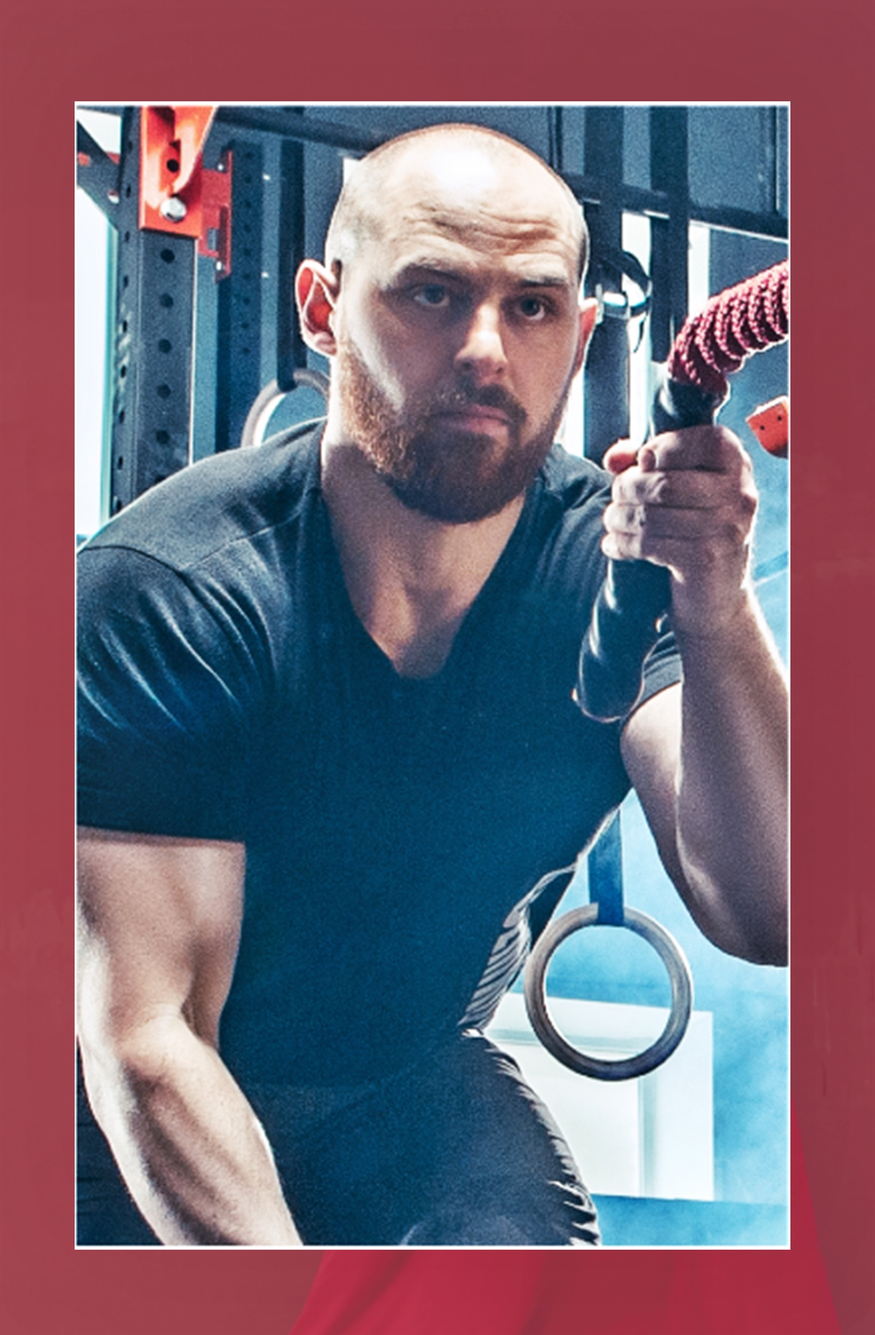
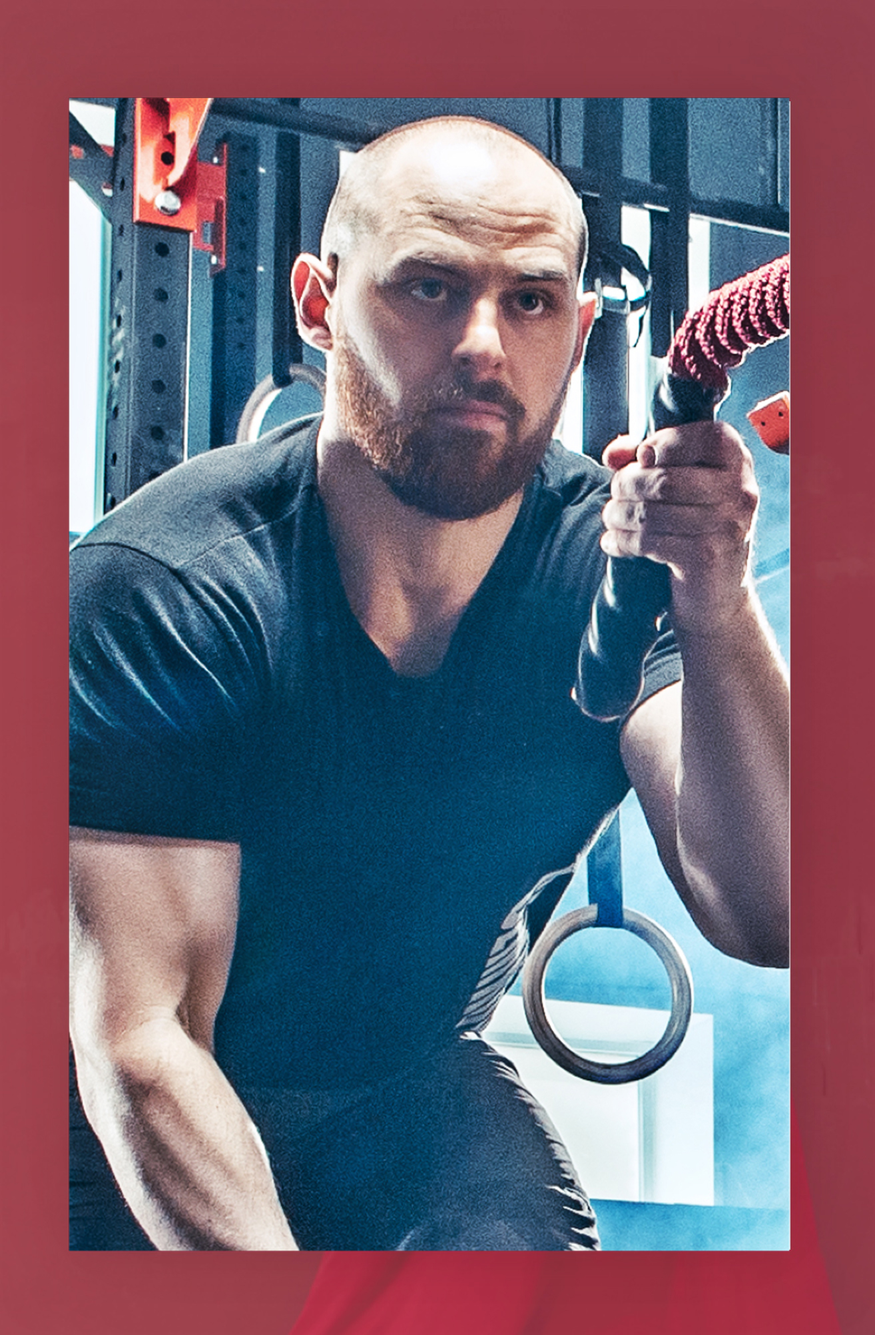
edit

Changed region(s): [[0.0624, 0.0619, 0.9049, 0.9591], [0.3744, 0.4331, 0.5616, 0.495]]

diff --git a/css/style.css b/css/style.css
@@ -44,7 +44,7 @@
 /* ===================================================================================== */
 .dangerrr{
   position: absolute;
-  background-color: #c50a0a;
+  background-color: #fd0d0d;
   padding-top: 6px;
   width: 25px;
   height: 25px;
@@ -83,14 +83,14 @@
   font-family: "futura-medium";
   font-size: 11px;
   letter-spacing: 4.33px;
-  opacity: 0.7;
+  /* opacity: 0.7; */
   padding-left: 2.5rem;
   font-weight: bold;
   color: #ffffff;
 }
 
 .navbar .navbar-nav .nav-item .nav-link:hover {
-  opacity: 1;
+  opacity: 0.9;
 }
 
 .navbar-nav .nav-item .nav-link img{
@@ -157,7 +157,7 @@
   font-size: 14px;
   letter-spacing: 8px;
   margin-top: 1rem;
-  margin-left: -0.4rem;
+  margin-left: -0.2rem;
 }
 .btnShopHeader:hover {
   background-color: #c50a0a;
@@ -233,6 +233,8 @@
 }
 .boxShirt {
   background-color: #f3f3f3;
+  padding-right: 0;
+  padding-left: 7rem;
 }
 .pText {
   font-family: "BankGothicMedium";
@@ -249,17 +251,18 @@
 .imgCross {
   position: absolute;
   margin-top: 10px;
-  top: -50px;
-  right: 0;
-  left: 130px;
+  top: -70px;
+  right: 0px;
+  width: unset;
   height: 400px;
 }
 .imgShirt {
   position: absolute;
   bottom: 0;
-  top: 120px;
-  left: -130px;
-  width: 150%;
+  top: 130px;
+  right: 0px;
+  width: 109%;
+  height: 87%;
 }
 .salary {
   border-bottom: 2px solid #c50a0a;
@@ -337,7 +340,7 @@
 }
 .imgEdit {
   position: absolute;
-  right: -100px;
+  right: 0px;
   margin-top: -160px;
   width: 100%;
   bottom: -180px;
@@ -438,13 +441,16 @@
 .swiper-button-next, .swiper-container-rtl .swiper-button-prev{
   position: absolute;
   top: 30px;
-  right: 10%;
+  right: 6%;
 }
 .swiper-button-prev, .swiper-container-rtl .swiper-button-next{
   position: absolute;
   top: 30px;
-  right: 20%;
+  right: 10%;
   left: unset;
+}
+.swiper-button-next:after, .swiper-container-rtl .swiper-button-prev:after,.swiper-button-next:after,.swiper-button-prev:after, .swiper-container-rtl .swiper-button-next:after{
+  content: none;
 }
 /* =================================== Page Comming Soon =============================== */
 .nvLnkComming {
@@ -669,41 +675,29 @@
   }
 }
 
-
-
 @media screen and (max-width: 1100px) {
   .imgCross {
     position: absolute;
     margin-top: 10px;
     top: -50px;
     right: 0;
-    left: 10px;
     height: 400px;
   }
   .imgEdit {
-    right: -100px !important;
-  }
-}
-
-@media screen and (max-width: 1400px) {
-  .imgEdit {
-    right: -100px !important;
-  }
-}
-
-@media screen and (max-width: 1600px) {
-  .imgEdit {
-    right: -100px !important;
+    right: 0px !important;
   }
 }
 
 @media screen and (max-width: 1024px) {
   .imgEdit {
     position: absolute;
-    right: -30px !important;
+    right: 10px !important;
     margin-top: -160px;
     width: 100%;
     bottom: -180px;
+  }
+  .imgShirt{
+    right: 0;
   }
 }
 
@@ -718,7 +712,9 @@
   .bottom-right2 {
     top: 320px;
   }
-
+  .boxShirt {
+    padding-left: 1rem;
+  }
   .couchEdit {
     position: relative;
     padding-top: 9rem;
@@ -739,7 +735,6 @@
     position: relative;
     width: 100%;
     top: 0;
-    left: -9px;
   }
   .btnShop {
     margin-bottom: 2rem;
@@ -760,6 +755,7 @@
     height: 400px;
   }
 }
+
 @media screen and (max-width: 790px) {
   .imgInnerSlider{
     width: 100% !important;
@@ -818,6 +814,7 @@
     right: 25%;
   }
 }
+
 @media screen and (max-width: 320px) {
   .slider1 .carousel-item img {
     padding-right: 15rem;
@@ -845,8 +842,6 @@
   }
 }
 
-
-
 @media screen and (min-width: 1000px) {
   .navbar-expand-lg {
     padding: 2rem 4rem 2rem 5rem;
@@ -855,9 +850,11 @@
     padding-left: 3.5rem;
   }
 }
+
 @media screen and (max-width:1024px){
   .imgInnerSlider{
-    top: -70px !important;
+    top: -100px !important;
+    width: 80% !important;
     right: 0;
     left: 0;
   }
@@ -875,6 +872,7 @@
     width: 183px;
   }
 }
+
 @media screen and (min-width:1400px){
   .carousel-control-prev,.carousel-control-next{
     top: 430px !important;
@@ -900,11 +898,46 @@
     height: 800px;
     object-position: 10% 20%;
   }
-}
-@media screen and (min-width:1211px){
-  .imgEdit{
-    right: -30px !important;
+  .boxShirt{
+    height: 740px;
+    padding-left: 6rem;
   }
+  .imgShirt{
+    width: 80%;
+    height: 100%;
+  }
+  .pText{
+    font-size: 22px;
+  }
+}
+
+@media screen and (min-width:2000px){
+  .imgShirt{
+    height: 130%;
+  }
+}
+
+@media screen and (max-width:1145px){
+
+  .imgInnerSlider{
+    width: 80% !important;
+    height: 420px !important;
+  }
+}
+
+@media screen and (max-width:1250px){
+  .imgShirt{
+    right: 0px;
+  }
+  .imgCross{
+    right: 0;
+  }
+  .imgEdit{
+    right: 20px;
+  }
+}
+
+@media screen and (min-width:1211px){
   .imgInnerSlider{
     right: 0;
     left: 0;

diff --git a/index.html b/index.html
@@ -223,8 +223,8 @@
             <div class="swiper-pagination">
                 <img src="images/next.svg">
             </div>
-            <div class="swiper-button-next"></div>
-            <div class="swiper-button-prev"></div>
+            <div class="swiper-button-next"><img src="images/right.svg"></div>
+            <div class="swiper-button-prev"><img src="images/left.svg"></div>
         </div><br>
     </div>
     <!-- ================================================================ -->
@@ -270,9 +270,9 @@
     <!-- ============================================================= -->
 
     <div class="jumbotron boxShirt">
-        <div class="container">
+        <div class="container-fluid">
             <div class="row">
-                <div class="col-lg-8">
+                <div class="col-lg-7">
                     <h3 class="commit">EXPECT NOTHING BUT THE BEST</h3>
                     <p class="entire">your entire life is on the line, try to take it more lightly</p>
                     <div class="row pt-3">
@@ -301,8 +301,8 @@
                         </div>
                     </div>
                 </div>
-                <div class="col-lg-4">
-                    <img src="images/img.svg" class="imgCross"><br>
+                <div class="col-lg-5">
+                    <img src="images/img.svg" class="imgCross float-right"><br>
                     <img src="images/shirts.png" class="imgShirt">
                 </div>
             </div>
@@ -645,8 +645,8 @@
         </div>
     </div>
 
-    <div class="jumbotron boxCouch mb-0">
-        <div class="container">
+    <div class="jumbotron boxCouch mb-0 pr-0 mr-0">
+        <div class="container-fluid">
             <div class="row justify-content-around" dir="rtl">
                 <div class="col-lg-2">
                     <img src="images/bitmap.svg" class="imgEdit">

diff --git a/shopping.html b/shopping.html
@@ -122,7 +122,7 @@
                     <p class="bankGothFontOpacity">Step number two will be to connect it to your email marketing software.</p>
                     <div class="row">
                         <div class="col-lg-5">
-                            <button class="btn btnContinue btn-block text-left">CONTINUE <i class="fa fa-long-arrow-alt-right d-flex float-right pt-1"></i></button>
+                            <button class="btn btnContinue btn-block text-left">BUY NOW <i class="fa fa-long-arrow-alt-right d-flex float-right pt-1"></i></button>
                         </div>
                     </div>
                 </div>
@@ -256,8 +256,8 @@
             <div class="swiper-pagination">
                 <img src="images/next.svg">
             </div>
-            <div class="swiper-button-next"></div>
-            <div class="swiper-button-prev"></div>
+            <div class="swiper-button-next"><img src="images/right.svg"></div>
+            <div class="swiper-button-prev"><img src="images/left.svg"></div>
         </div><br>
     </div>
     <div class="footer">

diff --git a/categories.html b/categories.html
@@ -287,8 +287,8 @@
             <div class="swiper-pagination">
                 <img src="images/next.svg">
             </div>
-            <div class="swiper-button-next"></div>
-            <div class="swiper-button-prev"></div>
+            <div class="swiper-button-next"><img src="images/right.svg"></div>
+            <div class="swiper-button-prev"><img src="images/left.svg"></div>
         </div><br>
     </div>
 
